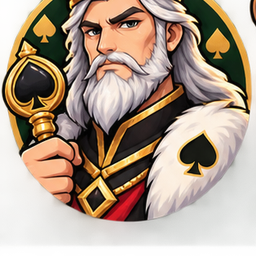
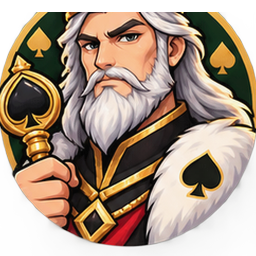
fix: 换牌桌背景、筹码改用图片、头像下移居中

diff --git a/src/components/ChipStack.tsx b/src/components/ChipStack.tsx
@@ -1,5 +1,16 @@
-// 拟真 3D 圆柱筹码：侧壁厚度 + 顶面渐变 + 虚线纹（设计融合 PokerMind，无需图片素材）
+// 拟真筹码：优先使用用户提供的筹码图片，加载失败回退到 CSS 3D 圆柱筹码
+import { useState } from 'react';
 import { cn } from '../lib/utils';
+
+const DENOMS = [10, 20, 50, 100, 500, 1000];
+
+function getDenom(amount: number): number {
+  if (amount <= 0) return 10;
+  for (let i = DENOMS.length - 1; i >= 0; i--) {
+    if (amount >= DENOMS[i]) return DENOMS[i];
+  }
+  return DENOMS[0];
+}
 
 function chipColor(amount: number): { top: string; side: string; text: string } {
   if (amount >= 1500) return { top: 'radial-gradient(circle at 30% 30%, #f0c46e 0%, #D4A857 40%, #a67c32 100%)', side: 'linear-gradient(180deg,#c89456 0%,#a67c32 100%)', text: '#2a1f00' }; // 金
@@ -9,22 +20,27 @@ function chipColor(amount: number): { top: string; side: string; text: string } 
   return { top: 'radial-gradient(circle at 30% 30%, #ffffff 0%, #e2e8f0 45%, #94a3b8 100%)', side: 'linear-gradient(180deg,#cbd5e1 0%,#94a3b8 100%)', text: '#1e293b' }; // 白
 }
 
+function chipTextColor(denom: number): string {
+  // 白底、金底用深色字，其他深底色用金字
+  if (denom === 10 || denom === 1000) return '#1a1200';
+  return '#f0c46e';
+}
+
 function fmt(n: number): string {
   if (n >= 10000) return `${(n / 1000).toFixed(0)}k`;
   if (n >= 1000) return `${(n / 1000).toFixed(1)}k`;
   return String(n);
 }
 
-export function Chip({ amount, size = 26, className }: { amount?: number; size?: number; className?: string }) {
+/** 独立 CSS 筹码（图片加载失败回退） */
+function CssChip({ amount, size, className }: { amount?: number; size: number; className?: string }) {
   const c = chipColor(amount ?? 0);
   const wall = Math.max(3, size * 0.18);
   return (
     <span className={cn('relative inline-block select-none', className)}
       style={{ width: size, height: size }}>
-      {/* 圆柱侧壁 */}
       <span className="absolute left-0 right-0 bottom-0 rounded-b-full"
         style={{ height: wall, background: c.side, boxShadow: '0 2px 4px rgba(0,0,0,0.4)' }} />
-      {/* 顶面 */}
       <span className="absolute left-0 right-0 top-0 flex items-center justify-center font-bold"
         style={{
           height: size - wall,
@@ -34,7 +50,6 @@ export function Chip({ amount, size = 26, className }: { amount?: number; size?:
           color: c.text,
           fontSize: size * 0.32,
         }}>
-        {/* 赌场筹码边缘白点斑纹 */}
         <span className="absolute inset-0 rounded-full pointer-events-none"
           style={{
             background: 'repeating-conic-gradient(rgba(255,255,255,0.85) 0deg 16deg, transparent 16deg 60deg)',
@@ -44,6 +59,42 @@ export function Chip({ amount, size = 26, className }: { amount?: number; size?:
         <span className="absolute rounded-full" style={{ inset: size * 0.16, border: '1.5px dashed rgba(255,255,255,0.45)' }} />
         {amount !== undefined && <span className="relative z-10 drop-shadow-sm">{fmt(amount)}</span>}
       </span>
+    </span>
+  );
+}
+
+export function Chip({ amount, size = 26, className }: { amount?: number; size?: number; className?: string }) {
+  const [errored, setErrored] = useState(false);
+  const denom = getDenom(amount ?? 0);
+  const src = `/icons/chip-${denom}.png`;
+
+  if (errored) {
+    return <CssChip amount={amount} size={size} className={className} />;
+  }
+
+  return (
+    <span className={cn('relative inline-block select-none', className)}
+      style={{ width: size, height: size }}>
+      <img
+        src={src}
+        alt=""
+        width={size}
+        height={size}
+        className="rounded-full object-cover"
+        style={{ width: size, height: size }}
+        onError={() => setErrored(true)}
+      />
+      {amount !== undefined && (
+        <span
+          className="absolute inset-0 flex items-center justify-center font-bold"
+          style={{
+            color: chipTextColor(denom),
+            fontSize: size * 0.32,
+            textShadow: denom === 10 || denom === 1000 ? '0 1px 2px rgba(255,255,255,0.7)' : '0 1px 3px rgba(0,0,0,0.75)',
+          }}>
+          {fmt(amount)}
+        </span>
+      )}
     </span>
   );
 }
